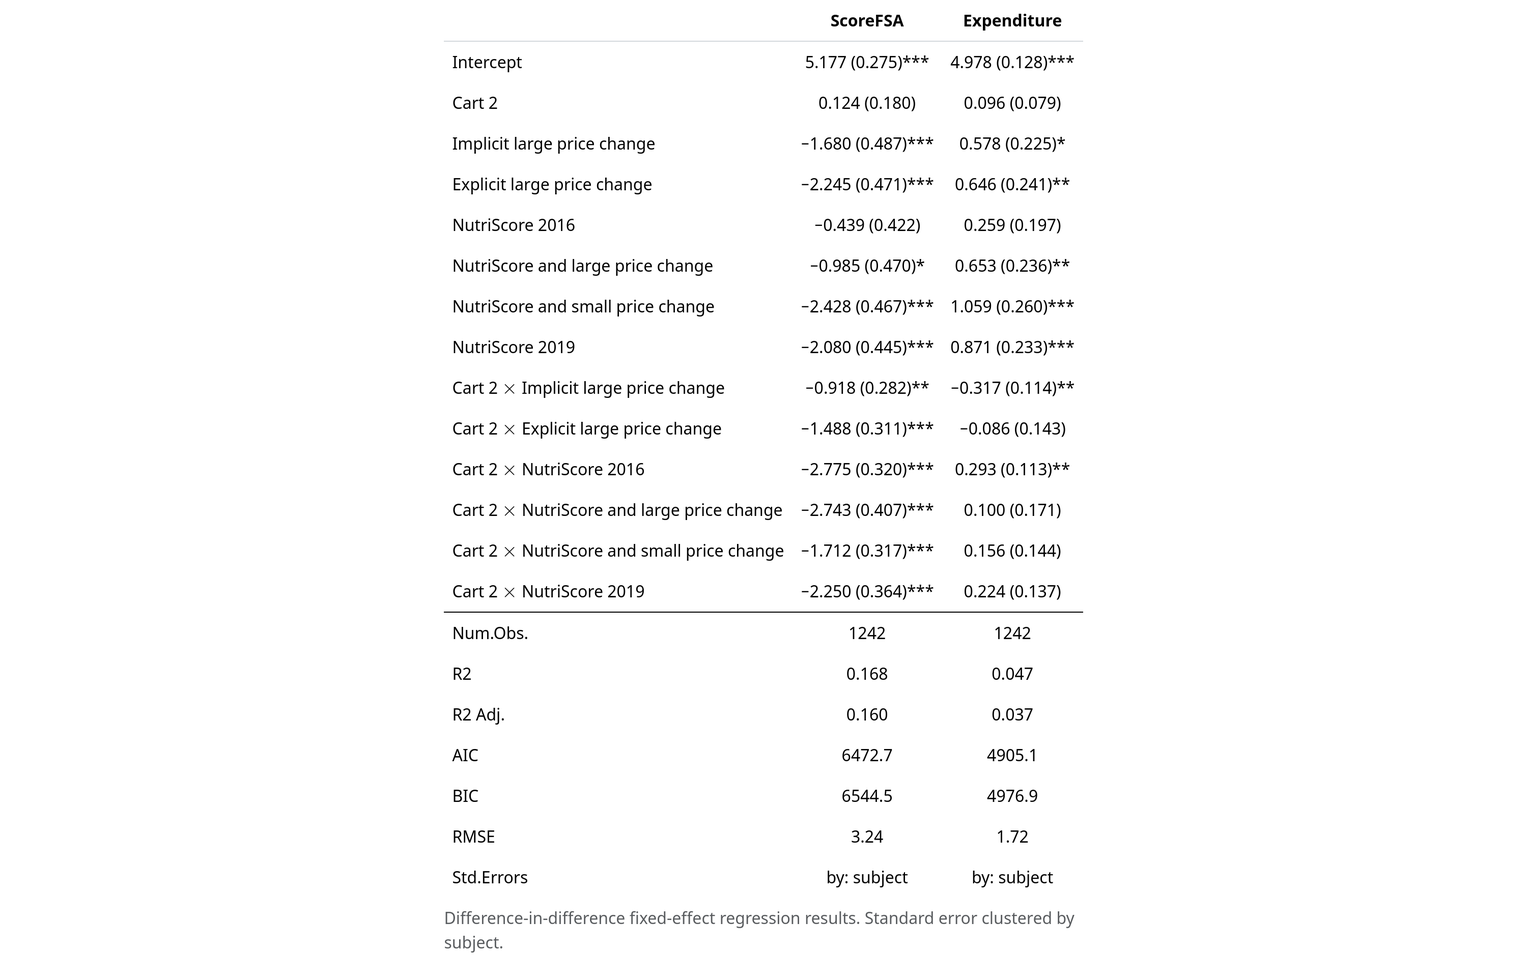
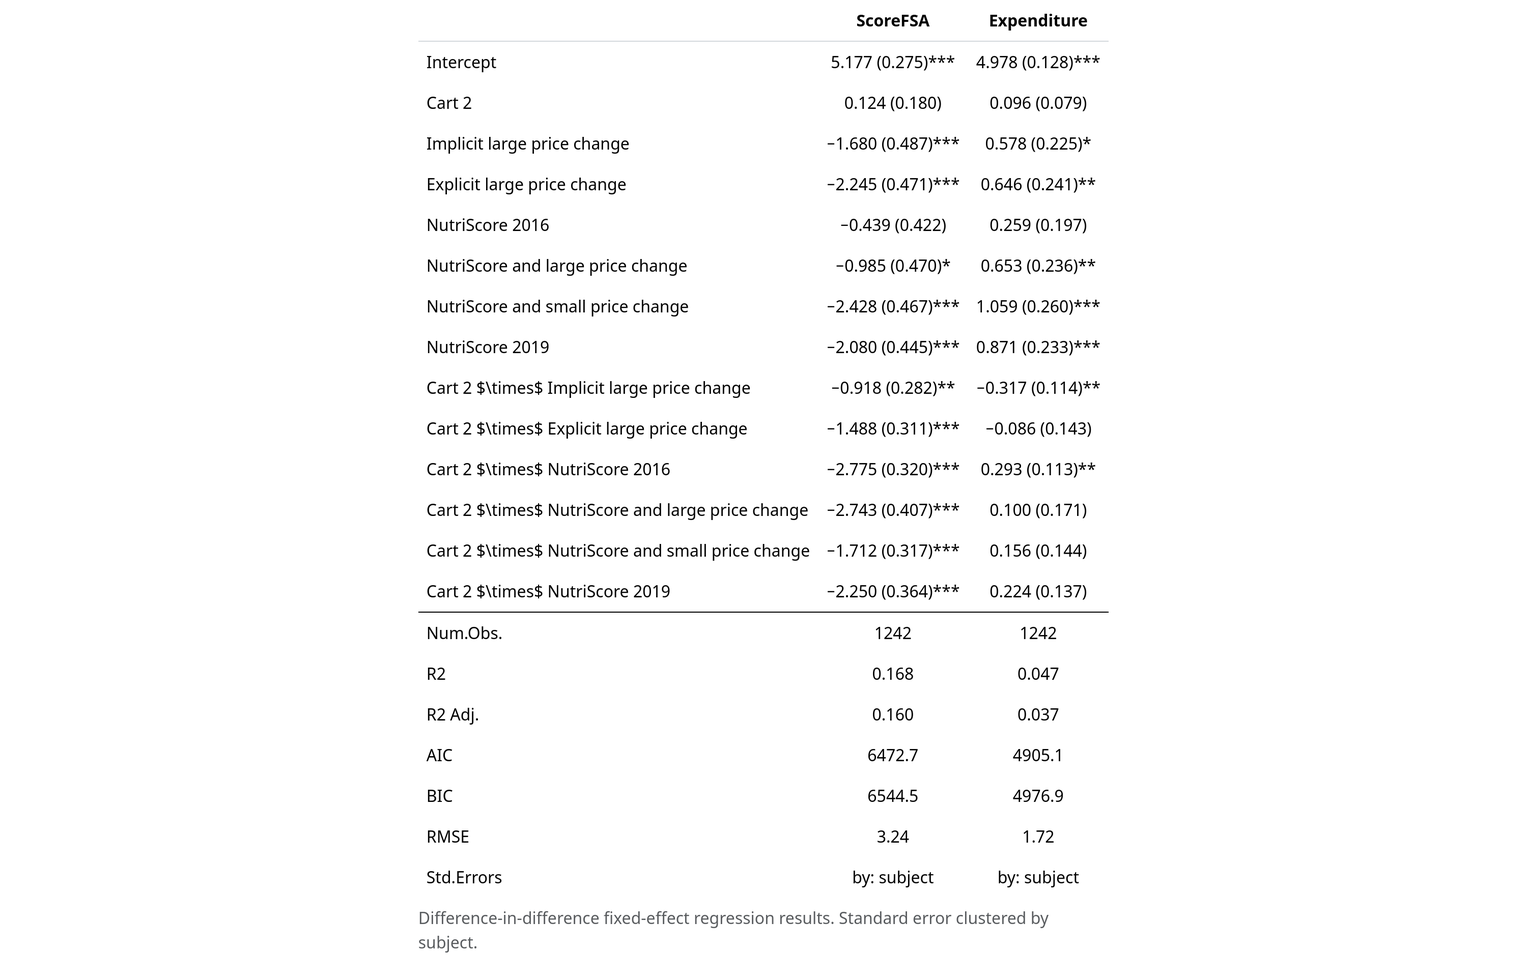
regression update for RR3: part 1, running all the regressions

diff --git a/Tables/Table_4.html b/Tables/Table_4.html
@@ -1,34 +1,134 @@
+<!-- preamble start -->
 <!DOCTYPE html> 
 <html lang="en">
   <head>
     <meta charset="UTF-8">
     <meta name="viewport" content="width=device-width, initial-scale=1.0">
-    <title>tinytable_amua0s5ebbmlg2orzqrs</title>
+    <title>tinytable_pondbxp85dantjdmwnzu</title>
     <link href="https://cdn.jsdelivr.net/npm/bootstrap@5.3.2/dist/css/bootstrap.min.css" rel="stylesheet">
-    <style>
-.table td.tinytable_css_27f7xo1uxruntmhg2a2a, .table th.tinytable_css_27f7xo1uxruntmhg2a2a {    border-bottom: solid 0.1em #d3d8dc; }
-.table td.tinytable_css_wn2q6j8uje9337mz0b78, .table th.tinytable_css_wn2q6j8uje9337mz0b78 {    text-align: left; }
-.table td.tinytable_css_opj9t872rm4qezrpmq10, .table th.tinytable_css_opj9t872rm4qezrpmq10 {    text-align: center; }
-.table td.tinytable_css_g8yq5a8ngmu6thp6y7kp, .table th.tinytable_css_g8yq5a8ngmu6thp6y7kp {    text-align: center; }
-.table td.tinytable_css_ts4614p0hzkg7xpudmbb, .table th.tinytable_css_ts4614p0hzkg7xpudmbb {    border-bottom: solid 0.05em black; }
-    </style>
-    <script src="https://polyfill.io/v3/polyfill.min.js?features=es6"></script>
-    <script id="MathJax-script" async src="https://cdn.jsdelivr.net/npm/mathjax@3/es5/tex-mml-chtml.js"></script>
-    <script>
-    MathJax = {
-      tex: {
-        inlineMath: [['$', '$'], ['\\(', '\\)']]
-      },
-      svg: {
-        fontCache: 'global'
-      }
-    };
-    </script>
   </head>
-
   <body>
+<!-- preamble end -->
+
+    <script>
+      function styleCell_pondbxp85dantjdmwnzu(i, j, css_id) {
+        var table = document.getElementById("tinytable_pondbxp85dantjdmwnzu");
+        table.rows[i].cells[j].classList.add(css_id);
+      }
+      function insertSpanRow(i, colspan, content) {
+        var table = document.getElementById('tinytable_pondbxp85dantjdmwnzu');
+        var newRow = table.insertRow(i);
+        var newCell = newRow.insertCell(0);
+        newCell.setAttribute("colspan", colspan);
+        // newCell.innerText = content;
+        // this may be unsafe, but innerText does not interpret <br>
+        newCell.innerHTML = content;
+      }
+      function spanCell_pondbxp85dantjdmwnzu(i, j, rowspan, colspan) {
+        var table = document.getElementById("tinytable_pondbxp85dantjdmwnzu");
+        const targetRow = table.rows[i];
+        const targetCell = targetRow.cells[j];
+        for (let r = 0; r < rowspan; r++) {
+          // Only start deleting cells to the right for the first row (r == 0)
+          if (r === 0) {
+            // Delete cells to the right of the target cell in the first row
+            for (let c = colspan - 1; c > 0; c--) {
+              if (table.rows[i + r].cells[j + c]) {
+                table.rows[i + r].deleteCell(j + c);
+              }
+            }
+          }
+          // For rows below the first, delete starting from the target column
+          if (r > 0) {
+            for (let c = colspan - 1; c >= 0; c--) {
+              if (table.rows[i + r] && table.rows[i + r].cells[j]) {
+                table.rows[i + r].deleteCell(j);
+              }
+            }
+          }
+        }
+        // Set rowspan and colspan of the target cell
+        targetCell.rowSpan = rowspan;
+        targetCell.colSpan = colspan;
+      }
+window.addEventListener('load', function () { styleCell_pondbxp85dantjdmwnzu(0, 0, 'tinytable_css_id75a59c7ojsqd5ghddfdx') })
+window.addEventListener('load', function () { styleCell_pondbxp85dantjdmwnzu(0, 1, 'tinytable_css_idzax6rcjnv20fidtbliby') })
+window.addEventListener('load', function () { styleCell_pondbxp85dantjdmwnzu(0, 2, 'tinytable_css_idzax6rcjnv20fidtbliby') })
+window.addEventListener('load', function () { styleCell_pondbxp85dantjdmwnzu(1, 0, 'tinytable_css_id3xdpwj2szbhwfxduamfu') })
+window.addEventListener('load', function () { styleCell_pondbxp85dantjdmwnzu(1, 1, 'tinytable_css_iduab2fxxezkvnh4mknfdr') })
+window.addEventListener('load', function () { styleCell_pondbxp85dantjdmwnzu(1, 2, 'tinytable_css_iduab2fxxezkvnh4mknfdr') })
+window.addEventListener('load', function () { styleCell_pondbxp85dantjdmwnzu(2, 0, 'tinytable_css_id3xdpwj2szbhwfxduamfu') })
+window.addEventListener('load', function () { styleCell_pondbxp85dantjdmwnzu(2, 1, 'tinytable_css_iduab2fxxezkvnh4mknfdr') })
+window.addEventListener('load', function () { styleCell_pondbxp85dantjdmwnzu(2, 2, 'tinytable_css_iduab2fxxezkvnh4mknfdr') })
+window.addEventListener('load', function () { styleCell_pondbxp85dantjdmwnzu(3, 0, 'tinytable_css_id3xdpwj2szbhwfxduamfu') })
+window.addEventListener('load', function () { styleCell_pondbxp85dantjdmwnzu(3, 1, 'tinytable_css_iduab2fxxezkvnh4mknfdr') })
+window.addEventListener('load', function () { styleCell_pondbxp85dantjdmwnzu(3, 2, 'tinytable_css_iduab2fxxezkvnh4mknfdr') })
+window.addEventListener('load', function () { styleCell_pondbxp85dantjdmwnzu(4, 0, 'tinytable_css_id3xdpwj2szbhwfxduamfu') })
+window.addEventListener('load', function () { styleCell_pondbxp85dantjdmwnzu(4, 1, 'tinytable_css_iduab2fxxezkvnh4mknfdr') })
+window.addEventListener('load', function () { styleCell_pondbxp85dantjdmwnzu(4, 2, 'tinytable_css_iduab2fxxezkvnh4mknfdr') })
+window.addEventListener('load', function () { styleCell_pondbxp85dantjdmwnzu(5, 0, 'tinytable_css_id3xdpwj2szbhwfxduamfu') })
+window.addEventListener('load', function () { styleCell_pondbxp85dantjdmwnzu(5, 1, 'tinytable_css_iduab2fxxezkvnh4mknfdr') })
+window.addEventListener('load', function () { styleCell_pondbxp85dantjdmwnzu(5, 2, 'tinytable_css_iduab2fxxezkvnh4mknfdr') })
+window.addEventListener('load', function () { styleCell_pondbxp85dantjdmwnzu(6, 0, 'tinytable_css_id3xdpwj2szbhwfxduamfu') })
+window.addEventListener('load', function () { styleCell_pondbxp85dantjdmwnzu(6, 1, 'tinytable_css_iduab2fxxezkvnh4mknfdr') })
+window.addEventListener('load', function () { styleCell_pondbxp85dantjdmwnzu(6, 2, 'tinytable_css_iduab2fxxezkvnh4mknfdr') })
+window.addEventListener('load', function () { styleCell_pondbxp85dantjdmwnzu(7, 0, 'tinytable_css_id3xdpwj2szbhwfxduamfu') })
+window.addEventListener('load', function () { styleCell_pondbxp85dantjdmwnzu(7, 1, 'tinytable_css_iduab2fxxezkvnh4mknfdr') })
+window.addEventListener('load', function () { styleCell_pondbxp85dantjdmwnzu(7, 2, 'tinytable_css_iduab2fxxezkvnh4mknfdr') })
+window.addEventListener('load', function () { styleCell_pondbxp85dantjdmwnzu(8, 0, 'tinytable_css_id3xdpwj2szbhwfxduamfu') })
+window.addEventListener('load', function () { styleCell_pondbxp85dantjdmwnzu(8, 1, 'tinytable_css_iduab2fxxezkvnh4mknfdr') })
+window.addEventListener('load', function () { styleCell_pondbxp85dantjdmwnzu(8, 2, 'tinytable_css_iduab2fxxezkvnh4mknfdr') })
+window.addEventListener('load', function () { styleCell_pondbxp85dantjdmwnzu(9, 0, 'tinytable_css_id3xdpwj2szbhwfxduamfu') })
+window.addEventListener('load', function () { styleCell_pondbxp85dantjdmwnzu(9, 1, 'tinytable_css_iduab2fxxezkvnh4mknfdr') })
+window.addEventListener('load', function () { styleCell_pondbxp85dantjdmwnzu(9, 2, 'tinytable_css_iduab2fxxezkvnh4mknfdr') })
+window.addEventListener('load', function () { styleCell_pondbxp85dantjdmwnzu(10, 0, 'tinytable_css_id3xdpwj2szbhwfxduamfu') })
+window.addEventListener('load', function () { styleCell_pondbxp85dantjdmwnzu(10, 1, 'tinytable_css_iduab2fxxezkvnh4mknfdr') })
+window.addEventListener('load', function () { styleCell_pondbxp85dantjdmwnzu(10, 2, 'tinytable_css_iduab2fxxezkvnh4mknfdr') })
+window.addEventListener('load', function () { styleCell_pondbxp85dantjdmwnzu(11, 0, 'tinytable_css_id3xdpwj2szbhwfxduamfu') })
+window.addEventListener('load', function () { styleCell_pondbxp85dantjdmwnzu(11, 1, 'tinytable_css_iduab2fxxezkvnh4mknfdr') })
+window.addEventListener('load', function () { styleCell_pondbxp85dantjdmwnzu(11, 2, 'tinytable_css_iduab2fxxezkvnh4mknfdr') })
+window.addEventListener('load', function () { styleCell_pondbxp85dantjdmwnzu(12, 0, 'tinytable_css_id3xdpwj2szbhwfxduamfu') })
+window.addEventListener('load', function () { styleCell_pondbxp85dantjdmwnzu(12, 1, 'tinytable_css_iduab2fxxezkvnh4mknfdr') })
+window.addEventListener('load', function () { styleCell_pondbxp85dantjdmwnzu(12, 2, 'tinytable_css_iduab2fxxezkvnh4mknfdr') })
+window.addEventListener('load', function () { styleCell_pondbxp85dantjdmwnzu(13, 0, 'tinytable_css_id3xdpwj2szbhwfxduamfu') })
+window.addEventListener('load', function () { styleCell_pondbxp85dantjdmwnzu(13, 1, 'tinytable_css_iduab2fxxezkvnh4mknfdr') })
+window.addEventListener('load', function () { styleCell_pondbxp85dantjdmwnzu(13, 2, 'tinytable_css_iduab2fxxezkvnh4mknfdr') })
+window.addEventListener('load', function () { styleCell_pondbxp85dantjdmwnzu(14, 0, 'tinytable_css_idptnjrtoe0fow4o9nrrqw') })
+window.addEventListener('load', function () { styleCell_pondbxp85dantjdmwnzu(14, 1, 'tinytable_css_id45tbgpcozqenuo94dn66') })
+window.addEventListener('load', function () { styleCell_pondbxp85dantjdmwnzu(14, 2, 'tinytable_css_id45tbgpcozqenuo94dn66') })
+window.addEventListener('load', function () { styleCell_pondbxp85dantjdmwnzu(15, 0, 'tinytable_css_id3xdpwj2szbhwfxduamfu') })
+window.addEventListener('load', function () { styleCell_pondbxp85dantjdmwnzu(15, 1, 'tinytable_css_iduab2fxxezkvnh4mknfdr') })
+window.addEventListener('load', function () { styleCell_pondbxp85dantjdmwnzu(15, 2, 'tinytable_css_iduab2fxxezkvnh4mknfdr') })
+window.addEventListener('load', function () { styleCell_pondbxp85dantjdmwnzu(16, 0, 'tinytable_css_id3xdpwj2szbhwfxduamfu') })
+window.addEventListener('load', function () { styleCell_pondbxp85dantjdmwnzu(16, 1, 'tinytable_css_iduab2fxxezkvnh4mknfdr') })
+window.addEventListener('load', function () { styleCell_pondbxp85dantjdmwnzu(16, 2, 'tinytable_css_iduab2fxxezkvnh4mknfdr') })
+window.addEventListener('load', function () { styleCell_pondbxp85dantjdmwnzu(17, 0, 'tinytable_css_id3xdpwj2szbhwfxduamfu') })
+window.addEventListener('load', function () { styleCell_pondbxp85dantjdmwnzu(17, 1, 'tinytable_css_iduab2fxxezkvnh4mknfdr') })
+window.addEventListener('load', function () { styleCell_pondbxp85dantjdmwnzu(17, 2, 'tinytable_css_iduab2fxxezkvnh4mknfdr') })
+window.addEventListener('load', function () { styleCell_pondbxp85dantjdmwnzu(18, 0, 'tinytable_css_id3xdpwj2szbhwfxduamfu') })
+window.addEventListener('load', function () { styleCell_pondbxp85dantjdmwnzu(18, 1, 'tinytable_css_iduab2fxxezkvnh4mknfdr') })
+window.addEventListener('load', function () { styleCell_pondbxp85dantjdmwnzu(18, 2, 'tinytable_css_iduab2fxxezkvnh4mknfdr') })
+window.addEventListener('load', function () { styleCell_pondbxp85dantjdmwnzu(19, 0, 'tinytable_css_id3xdpwj2szbhwfxduamfu') })
+window.addEventListener('load', function () { styleCell_pondbxp85dantjdmwnzu(19, 1, 'tinytable_css_iduab2fxxezkvnh4mknfdr') })
+window.addEventListener('load', function () { styleCell_pondbxp85dantjdmwnzu(19, 2, 'tinytable_css_iduab2fxxezkvnh4mknfdr') })
+window.addEventListener('load', function () { styleCell_pondbxp85dantjdmwnzu(20, 0, 'tinytable_css_id3xdpwj2szbhwfxduamfu') })
+window.addEventListener('load', function () { styleCell_pondbxp85dantjdmwnzu(20, 1, 'tinytable_css_iduab2fxxezkvnh4mknfdr') })
+window.addEventListener('load', function () { styleCell_pondbxp85dantjdmwnzu(20, 2, 'tinytable_css_iduab2fxxezkvnh4mknfdr') })
+window.addEventListener('load', function () { styleCell_pondbxp85dantjdmwnzu(21, 0, 'tinytable_css_id3xdpwj2szbhwfxduamfu') })
+window.addEventListener('load', function () { styleCell_pondbxp85dantjdmwnzu(21, 1, 'tinytable_css_iduab2fxxezkvnh4mknfdr') })
+window.addEventListener('load', function () { styleCell_pondbxp85dantjdmwnzu(21, 2, 'tinytable_css_iduab2fxxezkvnh4mknfdr') })
+    </script>
+
+    <style>
+    .table td.tinytable_css_id75a59c7ojsqd5ghddfdx, .table th.tinytable_css_id75a59c7ojsqd5ghddfdx {  text-align: left;  border-bottom: solid 0.1em #d3d8dc; }
+    .table td.tinytable_css_idzax6rcjnv20fidtbliby, .table th.tinytable_css_idzax6rcjnv20fidtbliby {  text-align: center;  border-bottom: solid 0.1em #d3d8dc; }
+    .table td.tinytable_css_id3xdpwj2szbhwfxduamfu, .table th.tinytable_css_id3xdpwj2szbhwfxduamfu {  text-align: left; }
+    .table td.tinytable_css_iduab2fxxezkvnh4mknfdr, .table th.tinytable_css_iduab2fxxezkvnh4mknfdr {  text-align: center; }
+    .table td.tinytable_css_idptnjrtoe0fow4o9nrrqw, .table th.tinytable_css_idptnjrtoe0fow4o9nrrqw {  border-bottom: solid 0.05em black;  text-align: left; }
+    .table td.tinytable_css_id45tbgpcozqenuo94dn66, .table th.tinytable_css_id45tbgpcozqenuo94dn66 {  border-bottom: solid 0.05em black;  text-align: center; }
+    </style>
     <div class="container">
-      <table class="table table-borderless" id="tinytable_amua0s5ebbmlg2orzqrs" style="width: auto; margin-left: auto; margin-right: auto;" data-quarto-disable-processing='true'>
+      <table class="table table-borderless" id="tinytable_pondbxp85dantjdmwnzu" style="width: auto; margin-left: auto; margin-right: auto;" data-quarto-disable-processing='true'>
         <thead>
         <caption>Difference-in-difference fixed-effect regression results. Standard error clustered by subject.</caption>
               <tr>
@@ -147,124 +247,9 @@
         </tbody>
       </table>
     </div>
-
-    <script src="https://cdn.jsdelivr.net/npm/bootstrap@5.3.2/dist/js/bootstrap.bundle.min.js"></script>
-    <script>
-      function styleCell_tinytable_2fll9eyt9ioq7cfrg8q8(i, j, css_id) {
-        var table = document.getElementById("tinytable_amua0s5ebbmlg2orzqrs");
-        table.rows[i].cells[j].classList.add(css_id);
-      }
-      function insertSpanRow(i, colspan, content) {
-        var table = document.getElementById('tinytable_amua0s5ebbmlg2orzqrs');
-        var newRow = table.insertRow(i);
-        var newCell = newRow.insertCell(0);
-        newCell.setAttribute("colspan", colspan);
-        // newCell.innerText = content;
-        // this may be unsafe, but innerText does not interpret <br>
-        newCell.innerHTML = content;
-      }
-      function spanCell_tinytable_2fll9eyt9ioq7cfrg8q8(i, j, rowspan, colspan) {
-        var table = document.getElementById("tinytable_amua0s5ebbmlg2orzqrs");
-        const targetRow = table.rows[i];
-        const targetCell = targetRow.cells[j];
-        for (let r = 0; r < rowspan; r++) {
-          // Only start deleting cells to the right for the first row (r == 0)
-          if (r === 0) {
-            // Delete cells to the right of the target cell in the first row
-            for (let c = colspan - 1; c > 0; c--) {
-              if (table.rows[i + r].cells[j + c]) {
-                table.rows[i + r].deleteCell(j + c);
-              }
-            }
-          }
-          // For rows below the first, delete starting from the target column
-          if (r > 0) {
-            for (let c = colspan - 1; c >= 0; c--) {
-              if (table.rows[i + r] && table.rows[i + r].cells[j]) {
-                table.rows[i + r].deleteCell(j);
-              }
-            }
-          }
-        }
-        // Set rowspan and colspan of the target cell
-        targetCell.rowSpan = rowspan;
-        targetCell.colSpan = colspan;
-      }
-
-window.addEventListener('load', function () { styleCell_tinytable_2fll9eyt9ioq7cfrg8q8(0, 0, 'tinytable_css_27f7xo1uxruntmhg2a2a') })
-window.addEventListener('load', function () { styleCell_tinytable_2fll9eyt9ioq7cfrg8q8(0, 1, 'tinytable_css_27f7xo1uxruntmhg2a2a') })
-window.addEventListener('load', function () { styleCell_tinytable_2fll9eyt9ioq7cfrg8q8(0, 2, 'tinytable_css_27f7xo1uxruntmhg2a2a') })
-window.addEventListener('load', function () { styleCell_tinytable_2fll9eyt9ioq7cfrg8q8(0, 0, 'tinytable_css_wn2q6j8uje9337mz0b78') })
-window.addEventListener('load', function () { styleCell_tinytable_2fll9eyt9ioq7cfrg8q8(1, 0, 'tinytable_css_wn2q6j8uje9337mz0b78') })
-window.addEventListener('load', function () { styleCell_tinytable_2fll9eyt9ioq7cfrg8q8(2, 0, 'tinytable_css_wn2q6j8uje9337mz0b78') })
-window.addEventListener('load', function () { styleCell_tinytable_2fll9eyt9ioq7cfrg8q8(3, 0, 'tinytable_css_wn2q6j8uje9337mz0b78') })
-window.addEventListener('load', function () { styleCell_tinytable_2fll9eyt9ioq7cfrg8q8(4, 0, 'tinytable_css_wn2q6j8uje9337mz0b78') })
-window.addEventListener('load', function () { styleCell_tinytable_2fll9eyt9ioq7cfrg8q8(5, 0, 'tinytable_css_wn2q6j8uje9337mz0b78') })
-window.addEventListener('load', function () { styleCell_tinytable_2fll9eyt9ioq7cfrg8q8(6, 0, 'tinytable_css_wn2q6j8uje9337mz0b78') })
-window.addEventListener('load', function () { styleCell_tinytable_2fll9eyt9ioq7cfrg8q8(7, 0, 'tinytable_css_wn2q6j8uje9337mz0b78') })
-window.addEventListener('load', function () { styleCell_tinytable_2fll9eyt9ioq7cfrg8q8(8, 0, 'tinytable_css_wn2q6j8uje9337mz0b78') })
-window.addEventListener('load', function () { styleCell_tinytable_2fll9eyt9ioq7cfrg8q8(9, 0, 'tinytable_css_wn2q6j8uje9337mz0b78') })
-window.addEventListener('load', function () { styleCell_tinytable_2fll9eyt9ioq7cfrg8q8(10, 0, 'tinytable_css_wn2q6j8uje9337mz0b78') })
-window.addEventListener('load', function () { styleCell_tinytable_2fll9eyt9ioq7cfrg8q8(11, 0, 'tinytable_css_wn2q6j8uje9337mz0b78') })
-window.addEventListener('load', function () { styleCell_tinytable_2fll9eyt9ioq7cfrg8q8(12, 0, 'tinytable_css_wn2q6j8uje9337mz0b78') })
-window.addEventListener('load', function () { styleCell_tinytable_2fll9eyt9ioq7cfrg8q8(13, 0, 'tinytable_css_wn2q6j8uje9337mz0b78') })
-window.addEventListener('load', function () { styleCell_tinytable_2fll9eyt9ioq7cfrg8q8(14, 0, 'tinytable_css_wn2q6j8uje9337mz0b78') })
-window.addEventListener('load', function () { styleCell_tinytable_2fll9eyt9ioq7cfrg8q8(15, 0, 'tinytable_css_wn2q6j8uje9337mz0b78') })
-window.addEventListener('load', function () { styleCell_tinytable_2fll9eyt9ioq7cfrg8q8(16, 0, 'tinytable_css_wn2q6j8uje9337mz0b78') })
-window.addEventListener('load', function () { styleCell_tinytable_2fll9eyt9ioq7cfrg8q8(17, 0, 'tinytable_css_wn2q6j8uje9337mz0b78') })
-window.addEventListener('load', function () { styleCell_tinytable_2fll9eyt9ioq7cfrg8q8(18, 0, 'tinytable_css_wn2q6j8uje9337mz0b78') })
-window.addEventListener('load', function () { styleCell_tinytable_2fll9eyt9ioq7cfrg8q8(19, 0, 'tinytable_css_wn2q6j8uje9337mz0b78') })
-window.addEventListener('load', function () { styleCell_tinytable_2fll9eyt9ioq7cfrg8q8(20, 0, 'tinytable_css_wn2q6j8uje9337mz0b78') })
-window.addEventListener('load', function () { styleCell_tinytable_2fll9eyt9ioq7cfrg8q8(21, 0, 'tinytable_css_wn2q6j8uje9337mz0b78') })
-window.addEventListener('load', function () { styleCell_tinytable_2fll9eyt9ioq7cfrg8q8(0, 1, 'tinytable_css_opj9t872rm4qezrpmq10') })
-window.addEventListener('load', function () { styleCell_tinytable_2fll9eyt9ioq7cfrg8q8(1, 1, 'tinytable_css_opj9t872rm4qezrpmq10') })
-window.addEventListener('load', function () { styleCell_tinytable_2fll9eyt9ioq7cfrg8q8(2, 1, 'tinytable_css_opj9t872rm4qezrpmq10') })
-window.addEventListener('load', function () { styleCell_tinytable_2fll9eyt9ioq7cfrg8q8(3, 1, 'tinytable_css_opj9t872rm4qezrpmq10') })
-window.addEventListener('load', function () { styleCell_tinytable_2fll9eyt9ioq7cfrg8q8(4, 1, 'tinytable_css_opj9t872rm4qezrpmq10') })
-window.addEventListener('load', function () { styleCell_tinytable_2fll9eyt9ioq7cfrg8q8(5, 1, 'tinytable_css_opj9t872rm4qezrpmq10') })
-window.addEventListener('load', function () { styleCell_tinytable_2fll9eyt9ioq7cfrg8q8(6, 1, 'tinytable_css_opj9t872rm4qezrpmq10') })
-window.addEventListener('load', function () { styleCell_tinytable_2fll9eyt9ioq7cfrg8q8(7, 1, 'tinytable_css_opj9t872rm4qezrpmq10') })
-window.addEventListener('load', function () { styleCell_tinytable_2fll9eyt9ioq7cfrg8q8(8, 1, 'tinytable_css_opj9t872rm4qezrpmq10') })
-window.addEventListener('load', function () { styleCell_tinytable_2fll9eyt9ioq7cfrg8q8(9, 1, 'tinytable_css_opj9t872rm4qezrpmq10') })
-window.addEventListener('load', function () { styleCell_tinytable_2fll9eyt9ioq7cfrg8q8(10, 1, 'tinytable_css_opj9t872rm4qezrpmq10') })
-window.addEventListener('load', function () { styleCell_tinytable_2fll9eyt9ioq7cfrg8q8(11, 1, 'tinytable_css_opj9t872rm4qezrpmq10') })
-window.addEventListener('load', function () { styleCell_tinytable_2fll9eyt9ioq7cfrg8q8(12, 1, 'tinytable_css_opj9t872rm4qezrpmq10') })
-window.addEventListener('load', function () { styleCell_tinytable_2fll9eyt9ioq7cfrg8q8(13, 1, 'tinytable_css_opj9t872rm4qezrpmq10') })
-window.addEventListener('load', function () { styleCell_tinytable_2fll9eyt9ioq7cfrg8q8(14, 1, 'tinytable_css_opj9t872rm4qezrpmq10') })
-window.addEventListener('load', function () { styleCell_tinytable_2fll9eyt9ioq7cfrg8q8(15, 1, 'tinytable_css_opj9t872rm4qezrpmq10') })
-window.addEventListener('load', function () { styleCell_tinytable_2fll9eyt9ioq7cfrg8q8(16, 1, 'tinytable_css_opj9t872rm4qezrpmq10') })
-window.addEventListener('load', function () { styleCell_tinytable_2fll9eyt9ioq7cfrg8q8(17, 1, 'tinytable_css_opj9t872rm4qezrpmq10') })
-window.addEventListener('load', function () { styleCell_tinytable_2fll9eyt9ioq7cfrg8q8(18, 1, 'tinytable_css_opj9t872rm4qezrpmq10') })
-window.addEventListener('load', function () { styleCell_tinytable_2fll9eyt9ioq7cfrg8q8(19, 1, 'tinytable_css_opj9t872rm4qezrpmq10') })
-window.addEventListener('load', function () { styleCell_tinytable_2fll9eyt9ioq7cfrg8q8(20, 1, 'tinytable_css_opj9t872rm4qezrpmq10') })
-window.addEventListener('load', function () { styleCell_tinytable_2fll9eyt9ioq7cfrg8q8(21, 1, 'tinytable_css_opj9t872rm4qezrpmq10') })
-window.addEventListener('load', function () { styleCell_tinytable_2fll9eyt9ioq7cfrg8q8(0, 2, 'tinytable_css_g8yq5a8ngmu6thp6y7kp') })
-window.addEventListener('load', function () { styleCell_tinytable_2fll9eyt9ioq7cfrg8q8(1, 2, 'tinytable_css_g8yq5a8ngmu6thp6y7kp') })
-window.addEventListener('load', function () { styleCell_tinytable_2fll9eyt9ioq7cfrg8q8(2, 2, 'tinytable_css_g8yq5a8ngmu6thp6y7kp') })
-window.addEventListener('load', function () { styleCell_tinytable_2fll9eyt9ioq7cfrg8q8(3, 2, 'tinytable_css_g8yq5a8ngmu6thp6y7kp') })
-window.addEventListener('load', function () { styleCell_tinytable_2fll9eyt9ioq7cfrg8q8(4, 2, 'tinytable_css_g8yq5a8ngmu6thp6y7kp') })
-window.addEventListener('load', function () { styleCell_tinytable_2fll9eyt9ioq7cfrg8q8(5, 2, 'tinytable_css_g8yq5a8ngmu6thp6y7kp') })
-window.addEventListener('load', function () { styleCell_tinytable_2fll9eyt9ioq7cfrg8q8(6, 2, 'tinytable_css_g8yq5a8ngmu6thp6y7kp') })
-window.addEventListener('load', function () { styleCell_tinytable_2fll9eyt9ioq7cfrg8q8(7, 2, 'tinytable_css_g8yq5a8ngmu6thp6y7kp') })
-window.addEventListener('load', function () { styleCell_tinytable_2fll9eyt9ioq7cfrg8q8(8, 2, 'tinytable_css_g8yq5a8ngmu6thp6y7kp') })
-window.addEventListener('load', function () { styleCell_tinytable_2fll9eyt9ioq7cfrg8q8(9, 2, 'tinytable_css_g8yq5a8ngmu6thp6y7kp') })
-window.addEventListener('load', function () { styleCell_tinytable_2fll9eyt9ioq7cfrg8q8(10, 2, 'tinytable_css_g8yq5a8ngmu6thp6y7kp') })
-window.addEventListener('load', function () { styleCell_tinytable_2fll9eyt9ioq7cfrg8q8(11, 2, 'tinytable_css_g8yq5a8ngmu6thp6y7kp') })
-window.addEventListener('load', function () { styleCell_tinytable_2fll9eyt9ioq7cfrg8q8(12, 2, 'tinytable_css_g8yq5a8ngmu6thp6y7kp') })
-window.addEventListener('load', function () { styleCell_tinytable_2fll9eyt9ioq7cfrg8q8(13, 2, 'tinytable_css_g8yq5a8ngmu6thp6y7kp') })
-window.addEventListener('load', function () { styleCell_tinytable_2fll9eyt9ioq7cfrg8q8(14, 2, 'tinytable_css_g8yq5a8ngmu6thp6y7kp') })
-window.addEventListener('load', function () { styleCell_tinytable_2fll9eyt9ioq7cfrg8q8(15, 2, 'tinytable_css_g8yq5a8ngmu6thp6y7kp') })
-window.addEventListener('load', function () { styleCell_tinytable_2fll9eyt9ioq7cfrg8q8(16, 2, 'tinytable_css_g8yq5a8ngmu6thp6y7kp') })
-window.addEventListener('load', function () { styleCell_tinytable_2fll9eyt9ioq7cfrg8q8(17, 2, 'tinytable_css_g8yq5a8ngmu6thp6y7kp') })
-window.addEventListener('load', function () { styleCell_tinytable_2fll9eyt9ioq7cfrg8q8(18, 2, 'tinytable_css_g8yq5a8ngmu6thp6y7kp') })
-window.addEventListener('load', function () { styleCell_tinytable_2fll9eyt9ioq7cfrg8q8(19, 2, 'tinytable_css_g8yq5a8ngmu6thp6y7kp') })
-window.addEventListener('load', function () { styleCell_tinytable_2fll9eyt9ioq7cfrg8q8(20, 2, 'tinytable_css_g8yq5a8ngmu6thp6y7kp') })
-window.addEventListener('load', function () { styleCell_tinytable_2fll9eyt9ioq7cfrg8q8(21, 2, 'tinytable_css_g8yq5a8ngmu6thp6y7kp') })
-window.addEventListener('load', function () { styleCell_tinytable_2fll9eyt9ioq7cfrg8q8(14, 0, 'tinytable_css_ts4614p0hzkg7xpudmbb') })
-window.addEventListener('load', function () { styleCell_tinytable_2fll9eyt9ioq7cfrg8q8(14, 1, 'tinytable_css_ts4614p0hzkg7xpudmbb') })
-window.addEventListener('load', function () { styleCell_tinytable_2fll9eyt9ioq7cfrg8q8(14, 2, 'tinytable_css_ts4614p0hzkg7xpudmbb') })
-    </script>
-
+<!-- postamble start -->
   </body>
 
 </html>
+<!-- postamble end -->
+<!-- hack to avoid NA insertion in last line -->
